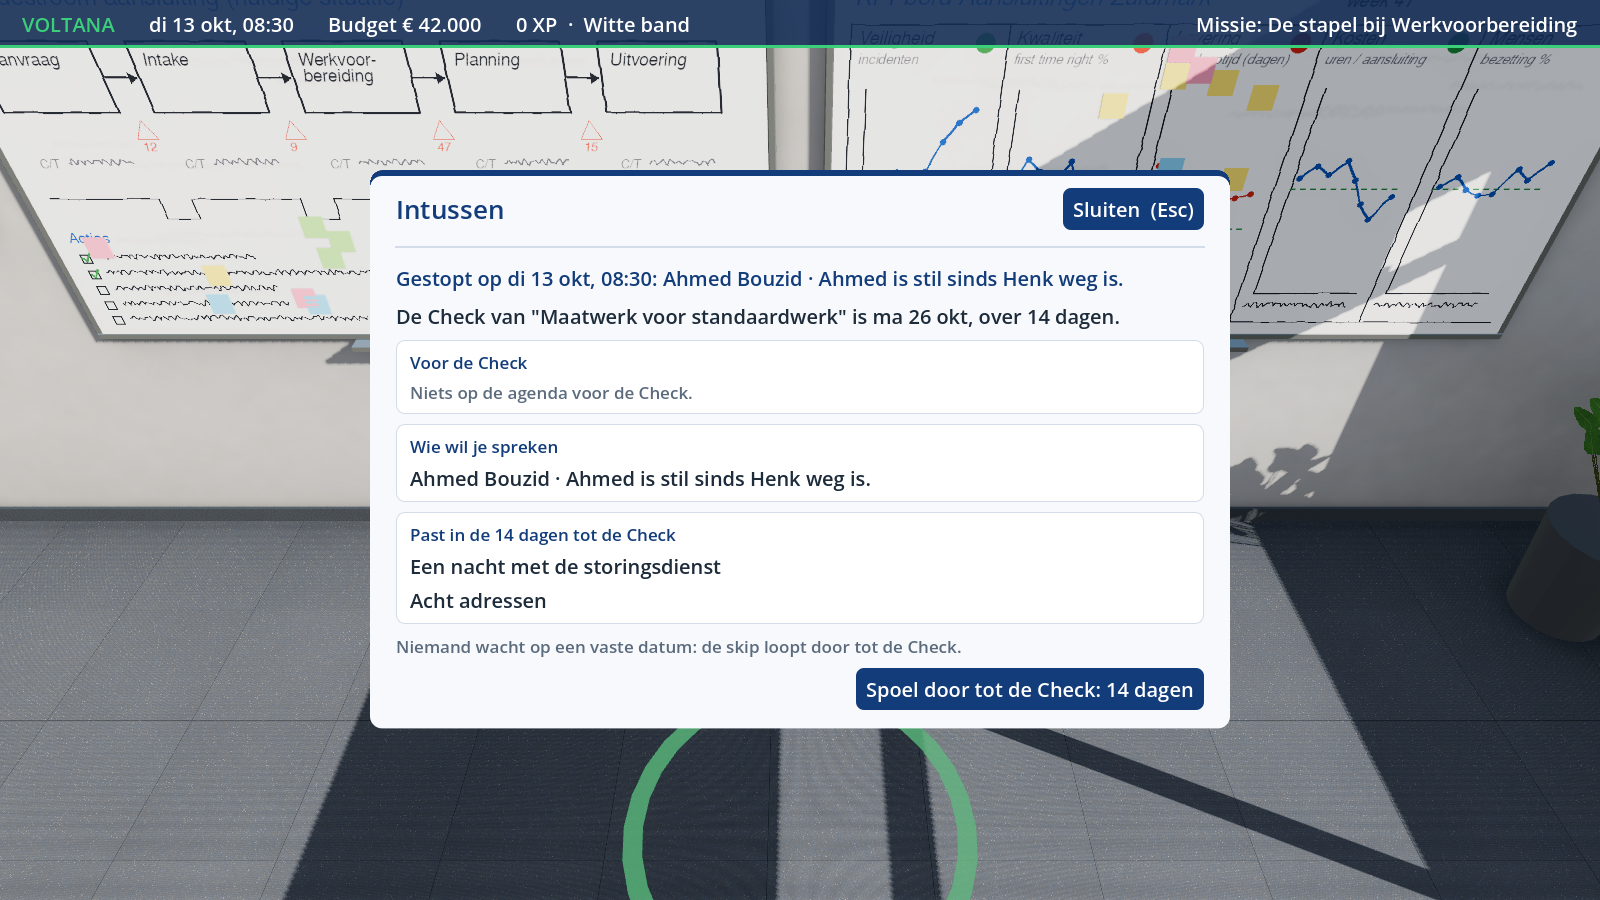
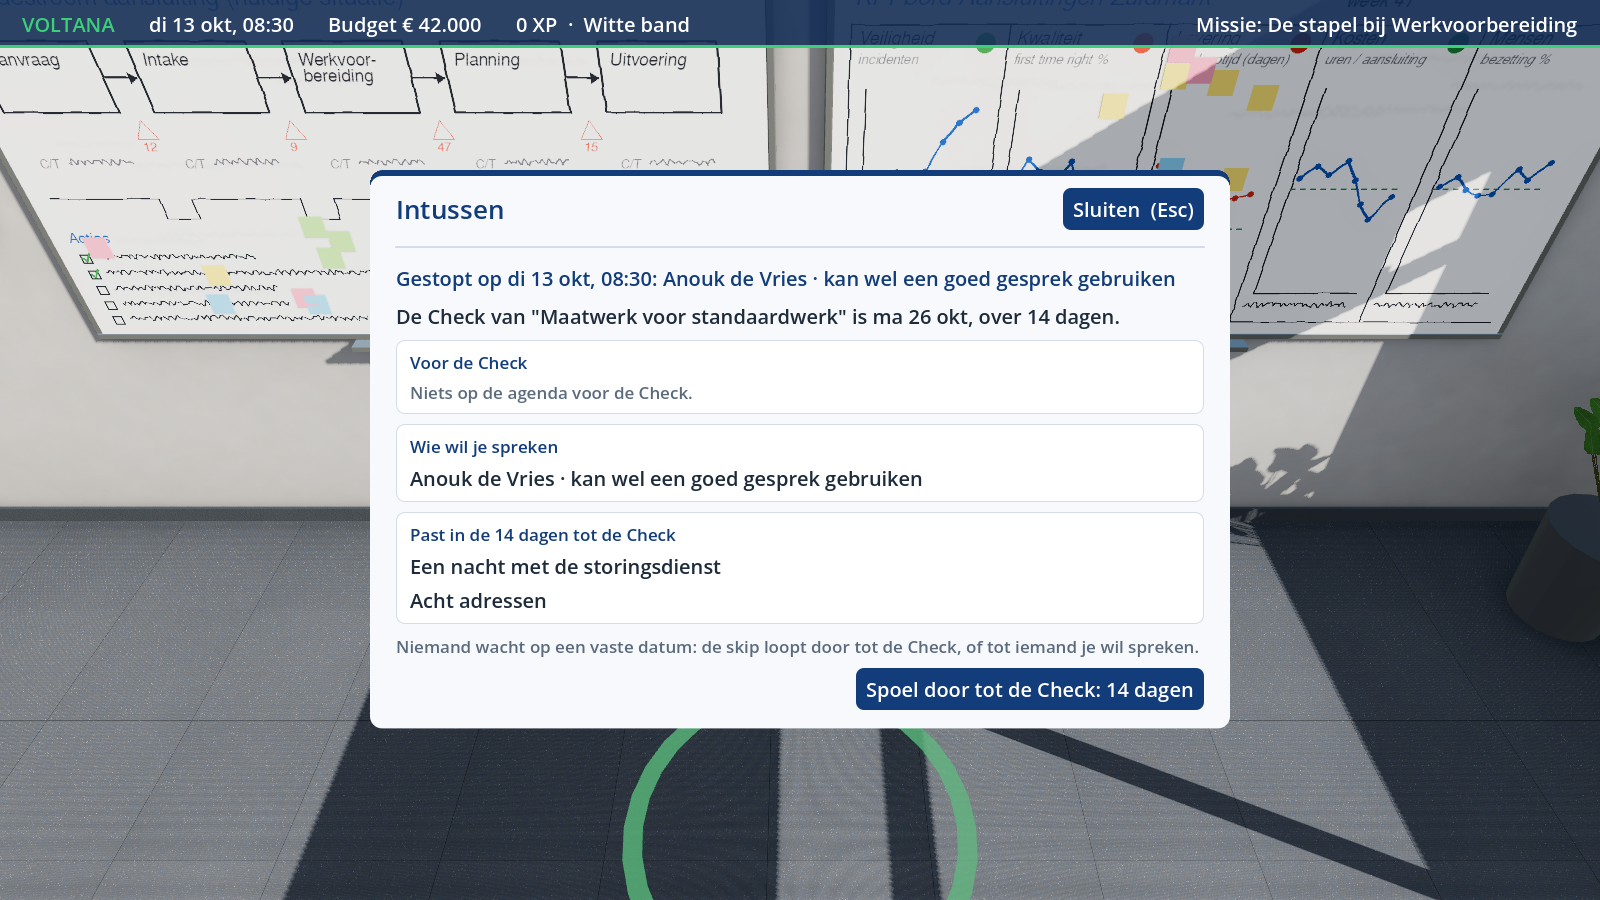
1.4b tests: content-robust check-in setup; a check-in without a line still names its person
The tests open a check-in by hand (whichever the content has) or let the
next sync open one, and read who came due from checkin_prompts(), so new
check-ins (D9) and the dated beat on Ahmed's (C11) do not break them. A
check-in with no prompt reads "<naam> · kan wel een goed gesprek gebruiken".

Claude-Session: https://claude.ai/code/session_018C759XCCMetfCHDHUbymvT

Changed region(s): [[0.4375, 0.28, 0.7188, 0.3422], [0.2812, 0.5289, 0.5625, 0.56], [0.5938, 0.7156, 0.75, 0.7467]]

diff --git a/PLAN.md b/PLAN.md
@@ -93,7 +93,7 @@ Each phase ends in a **playable** that Merijn plays before the next phase starts
   - ⬜ Petra's Meetdata desk is a **stand-in** (copied from `design0` in Godot by the east wall, with collision and a sign): put a real Meetdata & registratie corner into `build_office.py` at the next rebake and drop `stand_in_desk` from the cast.
 - ✅ **1.4 Session layer** (engagement loop §2, all decided): the *terugblik* card when the game opens (Ruud's line; Veranderd · Wacht op je · Komt eraan; one button); the "goed moment om te stoppen" note at the dagstart after ~30 real minutes; the *Intussen* panel during a Check with a named time skip that stops at beats with people; ≤ 1 discovery toast per in-game day; ≤ 2 new side offers a week, older ones in a "Nog open" drawer; a local playtest log (opt-out, never sent). Built 2026-10-16: `game/src/game/session_layer.gd` (rules side, reads Missions, changes no rule), `game/src/save/game_save.gd` (the whole game in the autosave slot, saved at every dagstart and on closing; resumed when the office is the main scene; old region-only saves load), `game/src/save/session_log.gd`, `game/src/ui/terugblik_card.gd`, `game/src/ui/intussen_panel.gd`, hooks in `game_ui.gd`, `mission_board.gd`, `clue_journal.gd` (Terugblik · Intussen · the log switch), `hud.gd`, `office.gd`; `GameSession.pass_time`. Screenshots `docs/screenshots/play_terugblik.png`, `play_intussen.png`. Calls in §10 (2026-10-16, session layer).
   - ⬜ 1.4a A real dagstart: there is no "Morgen" button or morning scene yet, so the dagstart is "the first moment of a new in-game day" (after a tool, a skip, a wait). When the dagstart becomes a scene (Phase 3.3 boards), move the stop note and the autosave onto it.
-  - ✅ 1.4b People instead of teams in "Wacht op je" and Intussen (UI agent, 2026-10-16 evening, `test_session_layer.gd`): a due check-in talk (`GameSession.checkin_prompts()`, D7's cadence) is a "Wacht op je" line with the person's name and dagstart line ("Ahmed Bouzid · Ahmed is stil sinds Henk weg is."), right after a ready Check; Intussen's "Wie wil je spreken" shows it; the named skip stops when a check-in comes due on the way (`stopped: talk`) and says whose. Ruud's own terugblik line stays on Checks and missions (he does not nag about people). Screenshot `play_intussen_talk.png`.
+  - ✅ 1.4b People instead of teams in "Wacht op je" and Intussen (UI agent, 2026-10-16 evening, `test_session_layer.gd`): a due check-in talk (`GameSession.checkin_prompts()`, D7's cadence) is a "Wacht op je" line with the person's name and dagstart line ("Ahmed Bouzid · Ahmed is stil sinds Henk weg is."), right after a ready Check; Intussen's "Wie wil je spreken" shows it; the named skip stops when a check-in comes due on the way (`stopped: talk`) and says whose; a check-in without a `prompt` reads "<naam> · kan wel een goed gesprek gebruiken" (⬜ D9 builder: `anouk_late` has no `prompt`, and the validator could require one on a check-in). Ruud's own terugblik line stays on Checks and missions (he does not nag about people). Screenshot `play_intussen_talk.png`.
   - ⬜ 1.4c Playtest log measures still missing (engagement loop §8): dialogs ruined in a row (needs 1.1), the main/side/people share of session time, "a Check window with nothing done".
   - ✅ 1.4d Save slots and a "Nieuw spel" choice on a title screen: built as 2.7 (2026-10-16; five slots, the title menu with the latest save on top, "Alles wissen"). The game opens on the title menu; the autosave is one of its entries.
 - 🔧 **1.5 UI debts the rules already need** (built 2026-10-16, `test_ui_debts.gd`): the Check panel shows the forecast ("Zonder jouw maatregel" / "Met jouw maatregel" over `forecast.days`, the measuring window named) and the A3 says the Check is simulating before it runs; Dutch text for `not_moved`, `impact_lead_time_small` and the `same_countermeasure` refusal; the HUD budget shows the weekly savings of held fixes and, in debt, the floor (orange); `dividend`, `overload`, `repair`, `reputation` events in Dutch (team names from the pools); the board labels a repair quest "herstel", the A3 shows "Eerder geprobeerd: …" on a rework; the A3's "Niet voorbereid" list with each `preparation` hint and "±€ … /jaar" (year cost, rounded: an estimate) next to each countermeasure; the board (now scrolling) and the debriefs use `mission_briefing` / `mission_debrief`, missions grouped under act and chapter titles (`UiText.ACT_TITLES`), the fork shown as a pair under "Twee hoofdmissies tegelijk"; the codex has an "Ontdekkingen" tab (silhouettes "? ? ?", end-of-act hints, found ones with object and Ruud's note) with the earned titles under "Jij, CI-lead bij Voltana Netbeheer"; training-week leftovers: the fade now shows in the numbers (fade_forecast re-applies the problem) and Friday starts on the next working morning (both already fixed in the session), and a practice fix no longer reads "knelpunt aangepakt" (impact notes hidden, a practice note instead); `CheckPanel` uses `Pdca.LOWER_IS_BETTER`. Screenshots `play_check.png`, `play_simulating.png`, `play_fork_board.png`, `play_discoveries.png`, `play_debt.png`, `play_a3.png`, `play_timelapse.png`. ✅ The builder's leftovers (UI agent, 2026-10-16 evening, `test_ui_debts.gd`): **Indammen** on the board under an active mission with a `containment` ("Indammen: <name> (€ 500, 14 dagen)", then "Ingedamd tot <dag>: … De oorzaak is nog niet weg."; the `contained` event and the refusal codes in Dutch); **Standaardiseren (€ 3.000)** per fix without a standard in the team's "Borging op deze plek" (the card now shows whenever a fix is held there; `PlaceMenu.standardise`; `not_resolved`, `standardised`, `no_budget` in Dutch); **the dossier** as a manila card at the top of the journal's Aanwijzingen once a mission whose briefing reads `{dossier_weken}` was taken on ("Onderweg: 31 dagen · 10,7 uur werk eraan · ligt nu bij Vergunning & KLIC", or "Aangesloten na … dagen"). Screenshots `play_contain_board.png`, `play_standardise.png`, `play_dossier.png`.
